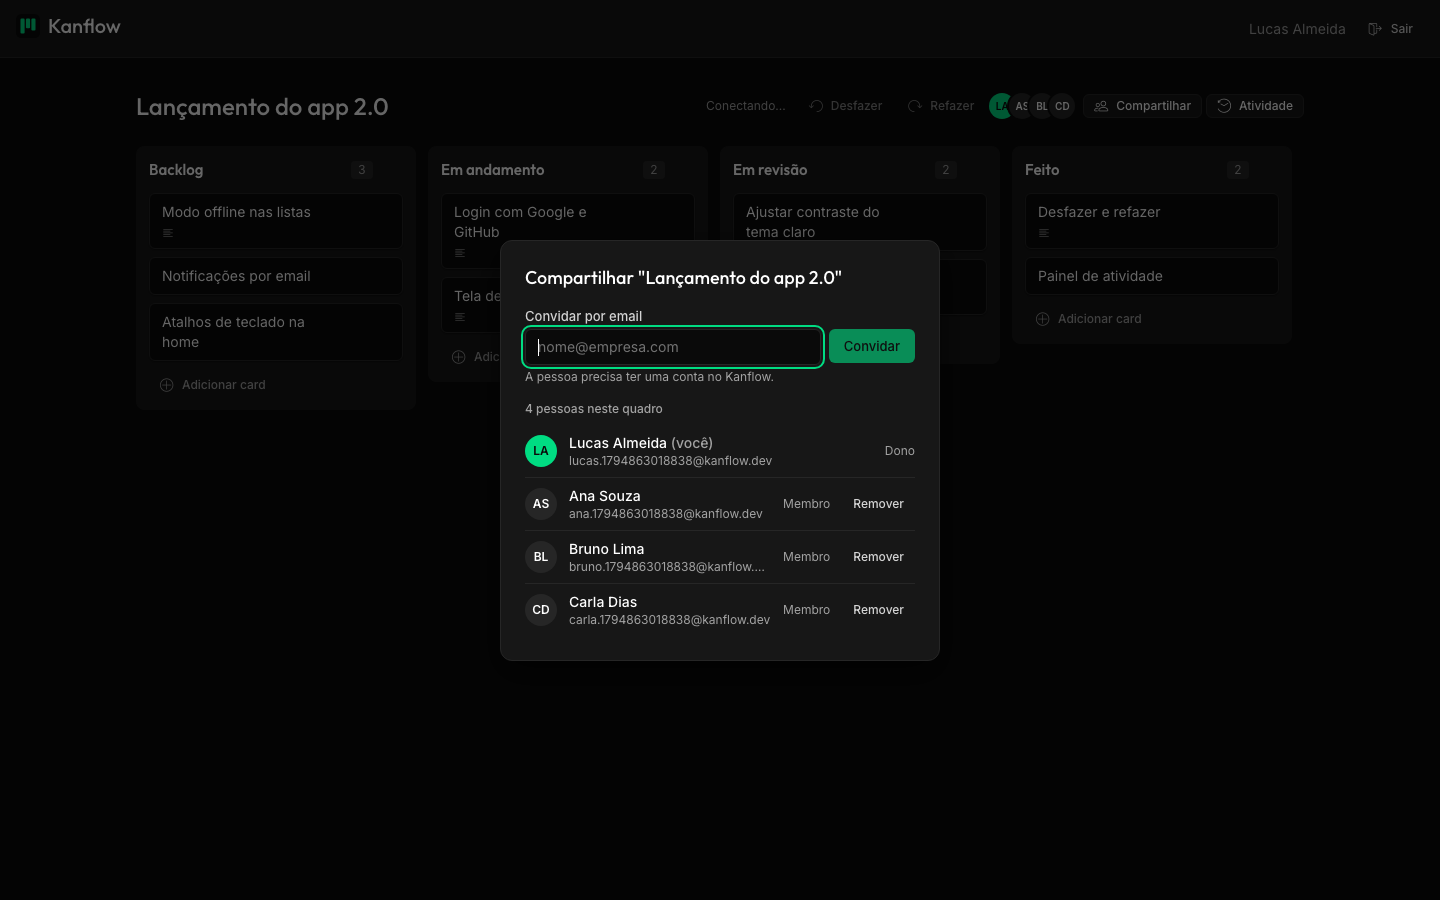
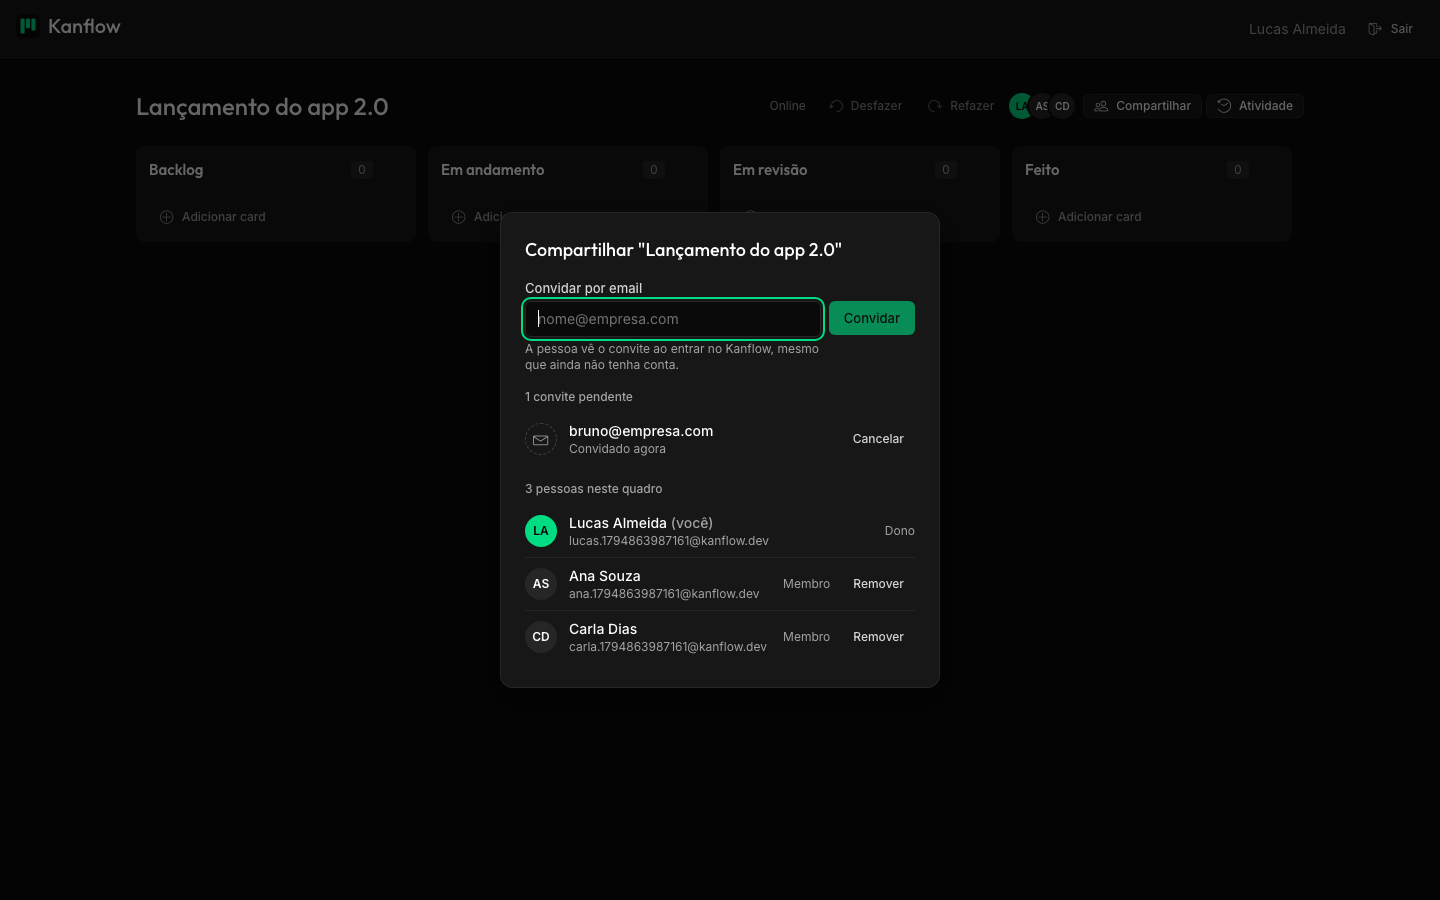
docs: README e api.http com o fluxo de convite com aceite
- funcionalidades, segurança, como testar o tempo real e tabela da API com as rotas de convite
- print do Compartilhar refeito com convite pendente
- api.http troca a rota removida POST /boards/:id/members pelas de convite

diff --git a/README.md b/README.md
@@ -28,7 +28,7 @@ O Kanflow é um projeto de portfólio no estilo Trello/Linear simplificado. O fo
 - **Conflitos tratados**: se duas pessoas mexem no mesmo card, a segunda recebe a versão mais nova e um aviso, em vez de apagar a mudança da primeira.
 - **Desfazer e refazer** (Ctrl+Z / Ctrl+Shift+Z) de criar, editar, mover e apagar cards.
 - **Histórico de atividade**: quem fez o quê e quando.
-- **Membros**: convidar por email, remover e sair do quadro. Quem é removido perde o acesso na hora, inclusive com o quadro aberto.
+- **Convites com aceite**: o dono convida por email (vale até para quem ainda não tem conta) e a pessoa aceita ou recusa na home. O dono remove membros e cada membro pode sair; quem é removido perde o acesso na hora, inclusive com o quadro aberto.
 - **Modelos de quadro** (Sprint, Controle de bugs, Kanban simples...) que já criam as colunas.
 - **Tema claro e escuro**, design system próprio e layout responsivo.
 
@@ -38,7 +38,7 @@ O Kanflow é um projeto de portfólio no estilo Trello/Linear simplificado. O fo
     <td width="50%"><img src="docs/screenshots/activity.png" alt="Painel de atividade com as ações de cada pessoa" /><p align="center"><sub>Histórico de atividade</sub></p></td>
   </tr>
   <tr>
-    <td width="50%"><img src="docs/screenshots/share.png" alt="Painel para convidar e remover membros" /><p align="center"><sub>Convidar e remover membros</sub></p></td>
+    <td width="50%"><img src="docs/screenshots/share.png" alt="Painel Compartilhar com um convite pendente e os membros do quadro" /><p align="center"><sub>Convites pendentes e membros</sub></p></td>
     <td width="50%"><img src="docs/screenshots/card-editor.png" alt="Diálogo de edição de card com título e descrição" /><p align="center"><sub>Edição de card</sub></p></td>
   </tr>
   <tr>
@@ -115,6 +115,7 @@ sequenceDiagram
 - Senhas com `scrypt` e salt, comparação em tempo constante e o mesmo tempo de resposta para email inexistente.
 - O banco guarda só o hash SHA-256 do token de sessão; sessões expiram em 30 dias.
 - A checagem de membro acontece antes de qualquer outra, e quem não participa recebe 404, não 403, para não revelar que o quadro existe.
+- Convidar não revela se o email tem conta (a resposta é sempre igual e não traz nome), e ninguém entra num quadro sem aceitar o convite.
 - Limite de tentativas no login (por email e por IP), no cadastro e nas operações do socket; limite de tamanho nos textos.
 - Logout e remoção de membro derrubam o socket aberto na hora.
 
@@ -134,7 +135,7 @@ npm run dev
 - `npm run setup` instala as dependências do backend e do frontend, cria o banco SQLite (`backend/dev.db`) e gera o cliente do Prisma.
 - `npm run dev` sobe o backend em http://localhost:3001 e o frontend em **http://localhost:5173**.
 
-Para ver o tempo real, abra o mesmo quadro em duas janelas (uma anônima, com outra conta convidada pelo botão **Compartilhar**).
+Para ver o tempo real, crie uma segunda conta numa janela anônima, convide o email dela pelo botão **Compartilhar** do quadro, aceite o convite na home da segunda conta e abra o mesmo quadro nas duas janelas.
 
 ### Scripts úteis
 
@@ -152,7 +153,7 @@ Para ver o tempo real, abra o mesmo quadro em duas janelas (uma anônima, com ou
 
 ## Testes e CI
 
-- **Backend**: um smoke test (`backend/smoke.ts`) que sobe clientes reais de REST e Socket.IO e cobre autenticação, permissões, operações, conflitos, `opId` repetido, tempo real, histórico, membros e limites.
+- **Backend**: um smoke test (`backend/smoke.ts`) que sobe clientes reais de REST e Socket.IO e cobre autenticação, permissões, operações, conflitos, `opId` repetido, tempo real, histórico, convites, membros e limites.
 - **Frontend**: testes em Vitest do reducer do quadro, dos comandos de desfazer/refazer e dos textos do histórico.
 - **CI**: todo PR para a `main` roda typecheck, lint, testes, build, as migrações num banco novo, o smoke test e a checagem do título no padrão Conventional Commits.
 
@@ -189,8 +190,12 @@ frontend/src/
 | GET · POST | `/boards` | listar (com papel, dono, membros e última atividade) · criar |
 | GET · PATCH · DELETE | `/boards/:id` | ver com colunas e cards · renomear · apagar (só o dono) |
 | GET | `/boards/:id/activity` | histórico |
-| GET · POST | `/boards/:id/members` | listar · convidar por email (só o dono) |
+| GET | `/boards/:id/members` | listar membros |
 | DELETE | `/boards/:id/members/:userId` | remover (dono) ou sair (o próprio membro) |
+| GET · POST | `/boards/:id/invitations` | convites pendentes · convidar por email (só o dono) |
+| DELETE | `/boards/:id/invitations/:invitationId` | cancelar convite (só o dono) |
+| GET | `/invitations` | meus convites pendentes |
+| POST | `/invitations/:id/accept` · `/invitations/:id/decline` | aceitar · recusar |
 | POST | `/boards/:id/columns` · DELETE `/columns/:id` | criar · apagar coluna |
 | POST | `/columns/:id/cards` | criar card |
 | PATCH · DELETE | `/cards/:id` | editar · apagar |
